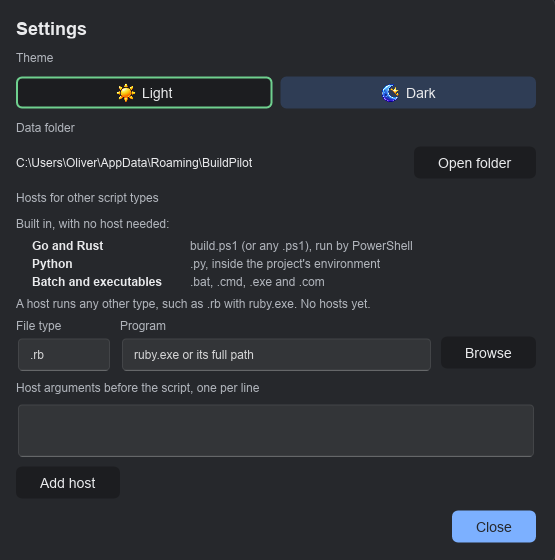
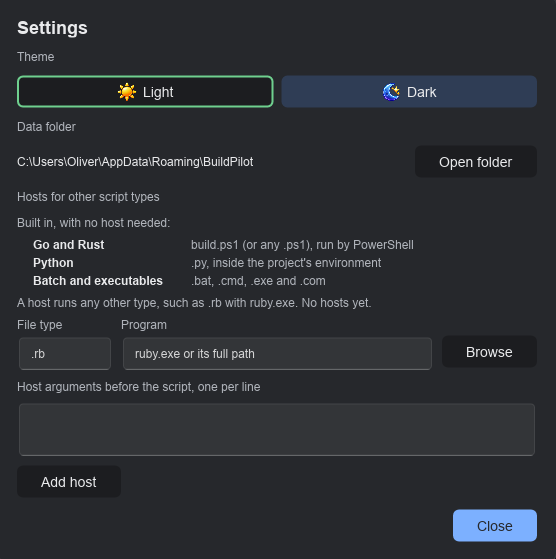
Refresh screenshots and their site descriptions
New captures of the window, the Edit dialog and Settings. The descriptions now match what each shows and the dialog sizes match the new files.

diff --git a/docs/index.html b/docs/index.html
@@ -62,7 +62,7 @@
             </div>
         </div>
         <figure class="shot">
-            <img src="screenshots/screenshot.png" alt="The BuildPilot window: a list of build operations, each with its status and controls. Launch installer is ready on every row whose setup program was found and greyed out with a red ring on the two where none was.">
+            <img src="screenshots/screenshot.png" alt="The BuildPilot window: a list of build operations, each with its status and controls. A Go build has just succeeded after 26 seconds; its output is open in the tray below, closed by the outcome in green. Stop is greyed out with a red ring on every row, since nothing is running.">
         </figure>
     </div>
 
@@ -126,14 +126,14 @@
         <h2>Steps, environments, installers and hosts, in two dialogs.</h2>
         <div class="gallery">
             <figure class="shot">
-                <img src="screenshots/edit.png" width="557" height="730" loading="lazy"
-                    alt="The Edit build operation dialog for AudioDeck: two steps, buildexe.py then buildinstaller.py, the working directory, the environment venv, the installer found in dist-installer and the project's icon.">
+                <img src="screenshots/edit.png" width="557" height="729" loading="lazy"
+                    alt="The Edit build operation dialog for Stellody: two steps, buildexe.py then buildinstaller.py, the working directory, the environment venv, the installer found in dist-installer and the project's icon.">
                 <figcaption><strong>Edit.</strong> A Python project's two steps, run in order
                     inside its own <code>venv</code>. Steps are added, removed and reordered
                     here; the installer and the icon were found in the project.</figcaption>
             </figure>
             <figure class="shot">
-                <img src="screenshots/settings.png" width="555" height="560" loading="lazy"
+                <img src="screenshots/settings.png" width="556" height="559" loading="lazy"
                     alt="The Settings dialog: the theme, the data folder, the build types that run with no host (Go and Rust, Python, batch files and executables) and the fields for adding a host.">
                 <figcaption><strong>Settings.</strong> Go, Rust and Python builds run out of
                     the box. A host runs any other script type, such as <code>.rb</code> with
